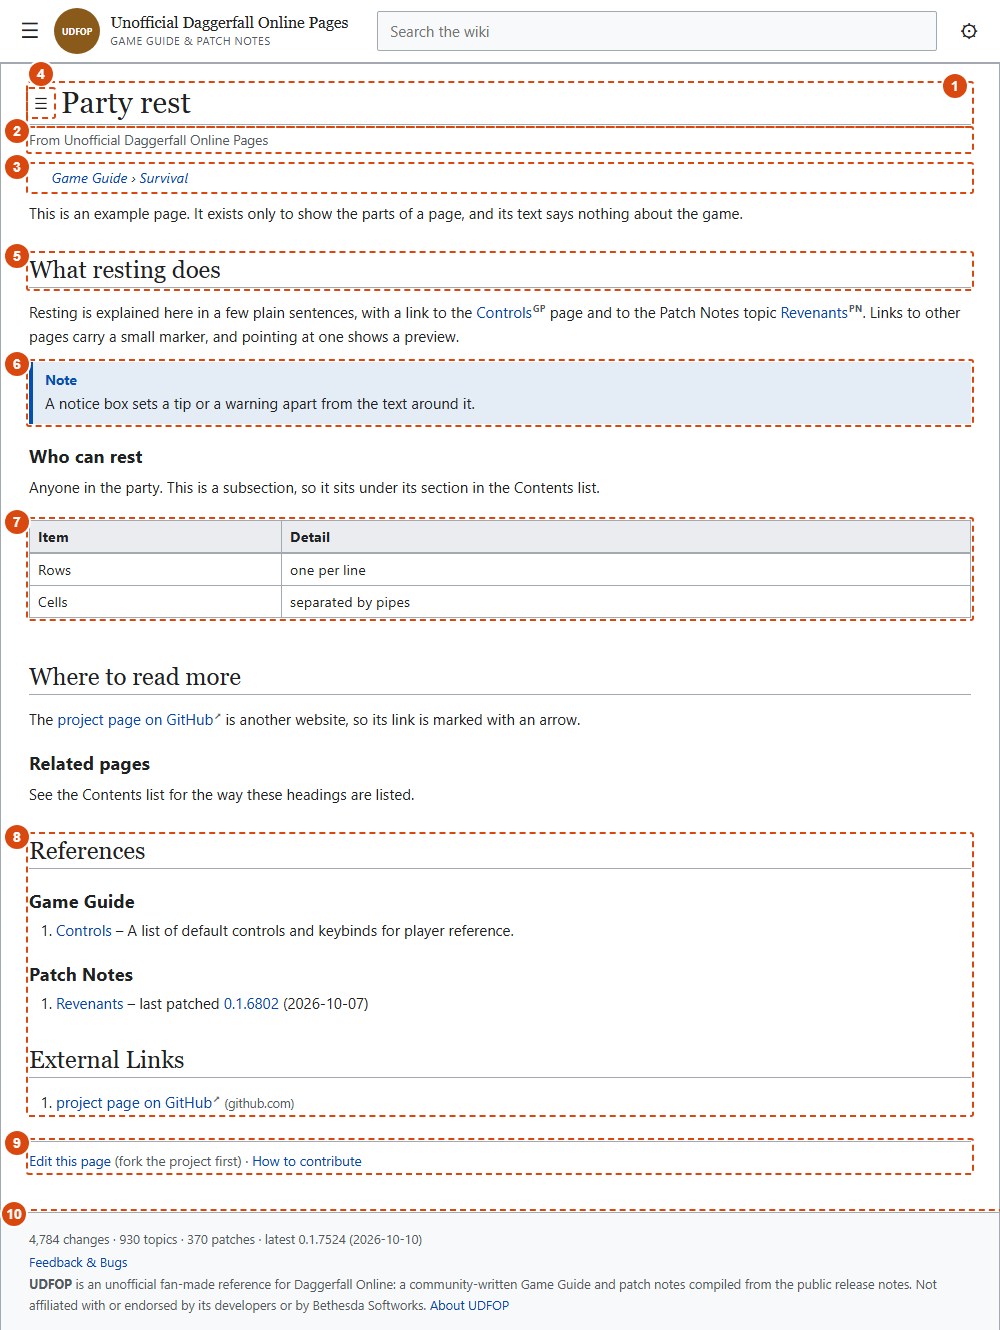
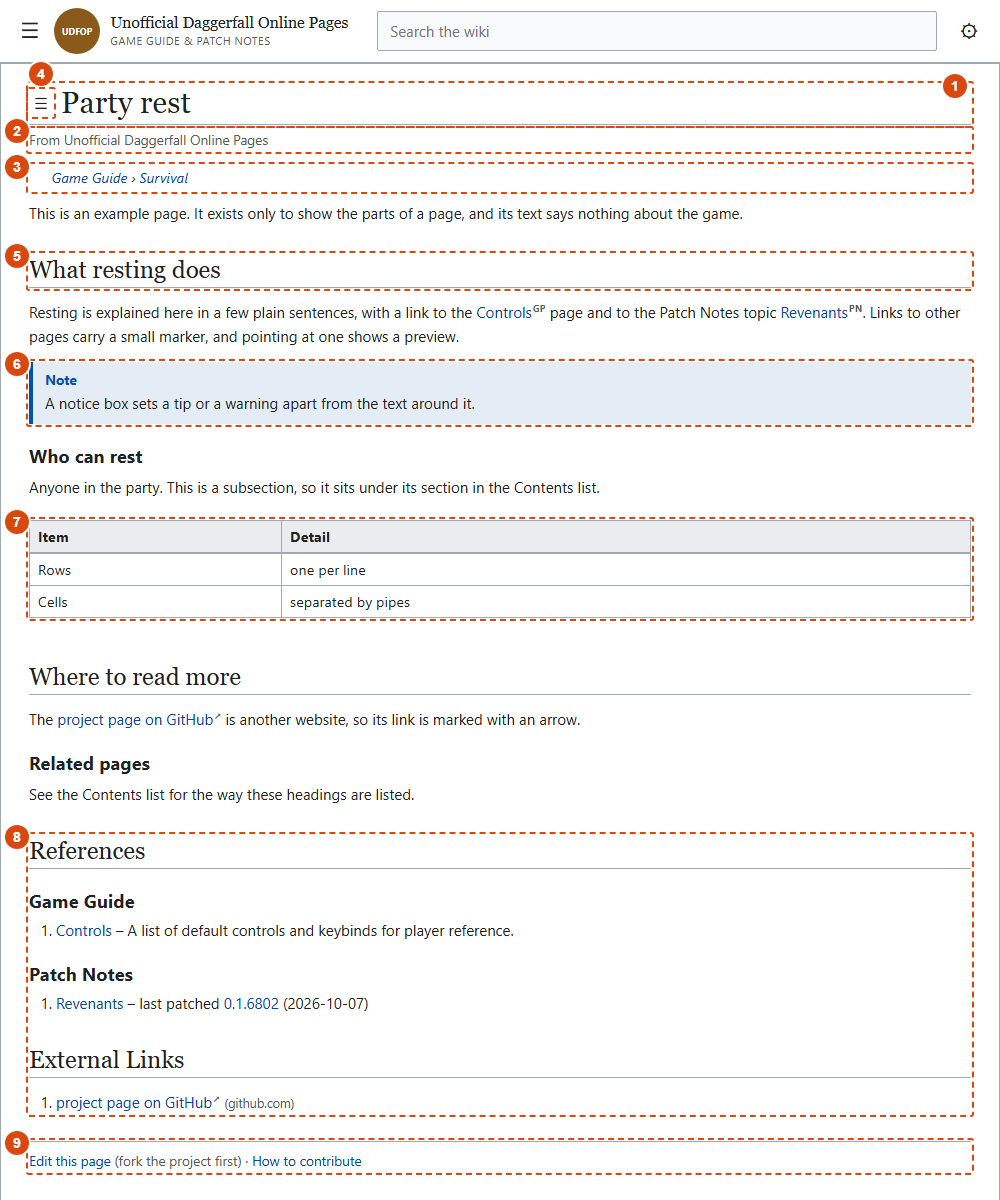
Anatomy of a page: the footer is shown and explained with the whole screen, not as part of the page

Changed region(s): [[0.0, 0.0, 1.0, 0.9867]]

diff --git a/web/site/page-anatomy.md b/web/site/page-anatomy.md
@@ -8,7 +8,7 @@ A Game Guide page looks like more than the file you wrote. The site builds a tit
 
 ## The whole screen
 
-![A guide page on a wide window, with the header, the Contents list on the left, the page in the middle and Settings on the right, each outlined and numbered](images/anatomy-screen.png "A guide page on a wide window with its default layout. The numbers are explained below."){center 900}
+![A guide page on a wide window, with the header, the Contents list on the left, the page in the middle, Settings on the right and the footer under the page, each outlined and numbered](images/anatomy-screen.png "A guide page on a wide window with its default layout. The numbers are explained below."){center 900}
 
 1. **The Main menu button.** The main menu is hidden until the reader opens it with this button.
 2. **The logo.** It links to the Main Page.
@@ -16,12 +16,13 @@ A Game Guide page looks like more than the file you wrote. The site builds a tit
 4. **The left sidebar**, which holds the Contents list, and the main menu if the reader docks it there.
 5. **The page.** This is the only part you write.
 6. **The right sidebar**, which holds Settings.
+7. **The footer.** It is the same under every page: the change, topic and patch counts, the Feedback & Bugs link and the disclaimer. It belongs to the site, not to your page.
 
 Readers choose which of these are shown, and how wide the page is. See [[Using the site]].
 
 ## The page itself
 
-![A guide page from the title to the footer, with each part outlined and numbered](images/anatomy-page.png "A guide page from top to bottom. The Contents list is hidden here, so its button appears beside the title."){center 760}
+![A guide page from the title to the edit line, with each part outlined and numbered](images/anatomy-page.png "A guide page from the title to the edit line. The Contents list is hidden here, so its button appears beside the title."){center 760}
 
 From the top of the page down. The numbers match the picture.
 
@@ -34,7 +35,6 @@ From the top of the page down. The numbers match the picture.
 | 5 to 7 | **Your text** | Everything you wrote below the front matter. Here it is a section heading (5), a notice box (6) and a table (7). Each `##` and `###` heading also becomes an entry in the Contents list. |
 | 8 | **References** | Built from the links in your text and your `related` line. |
 | 9 | **Edit line** | "Edit this page (fork the project first) · How to contribute." Added by the site. |
-| 10 | **Footer** | The change, topic and patch counts, the Feedback & Bugs link and the disclaimer. Added by the site. |
 
 ## On a narrow screen
 
